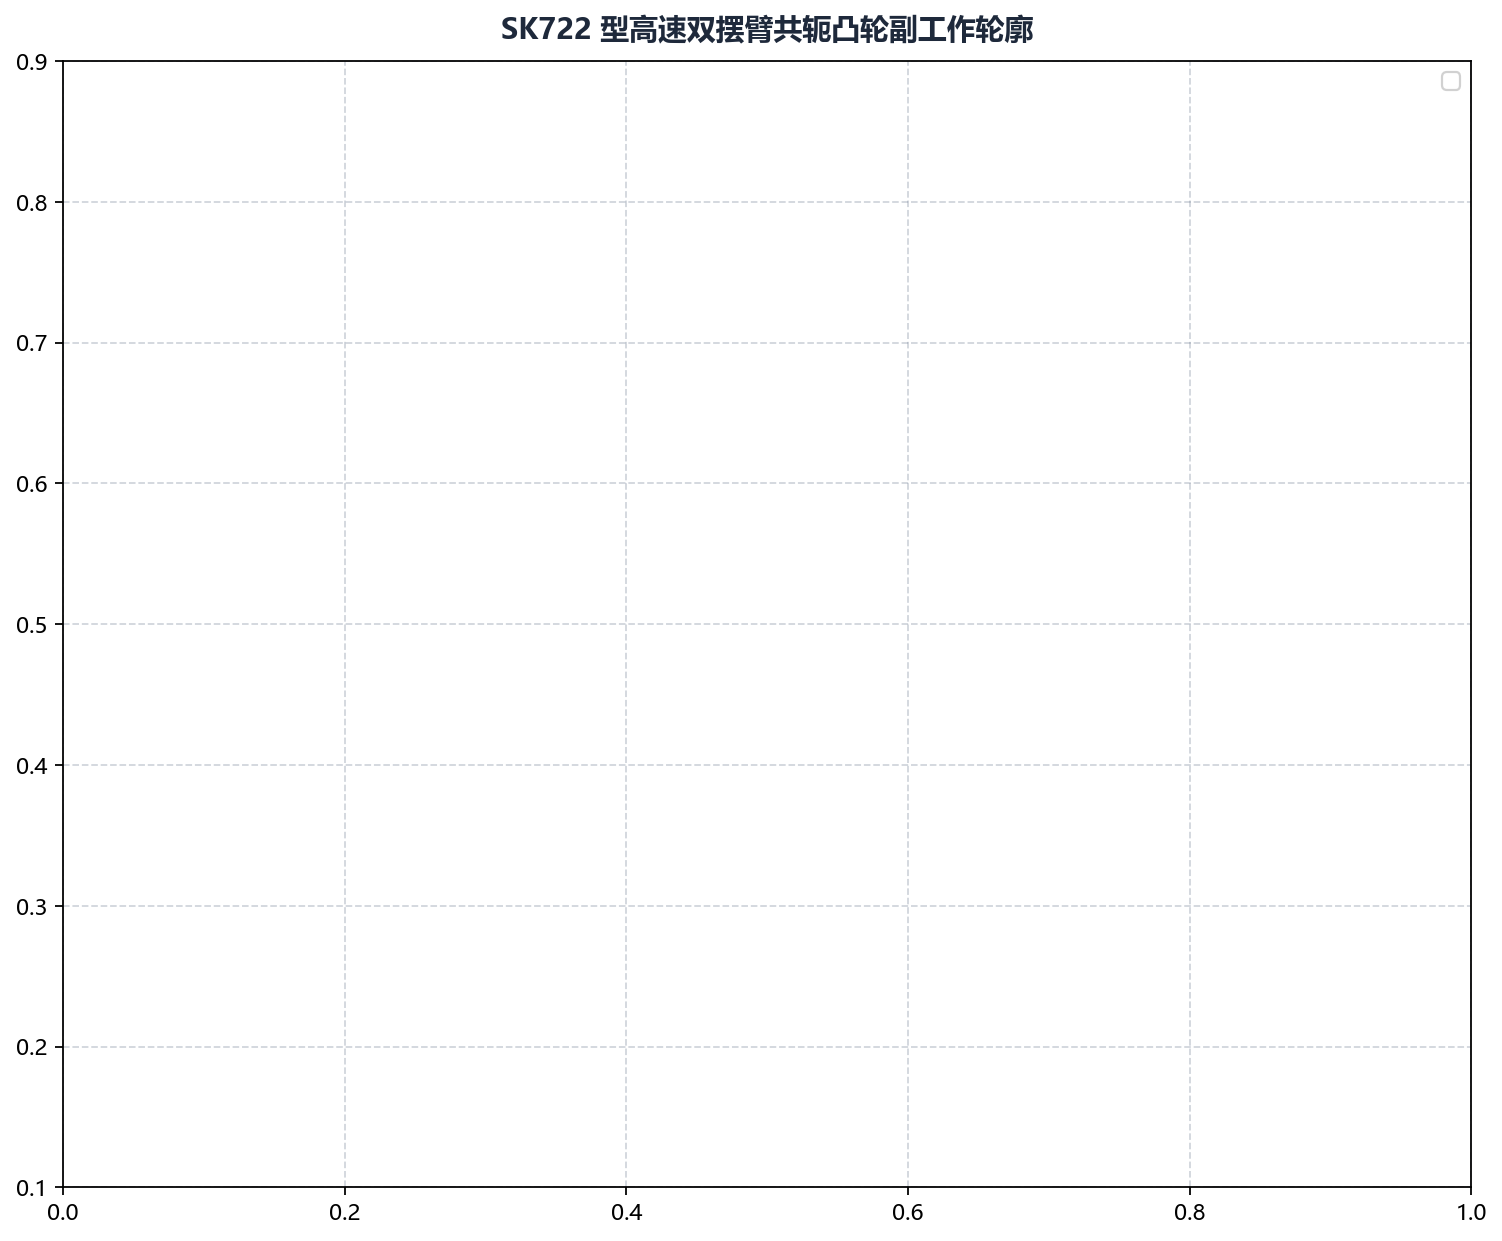
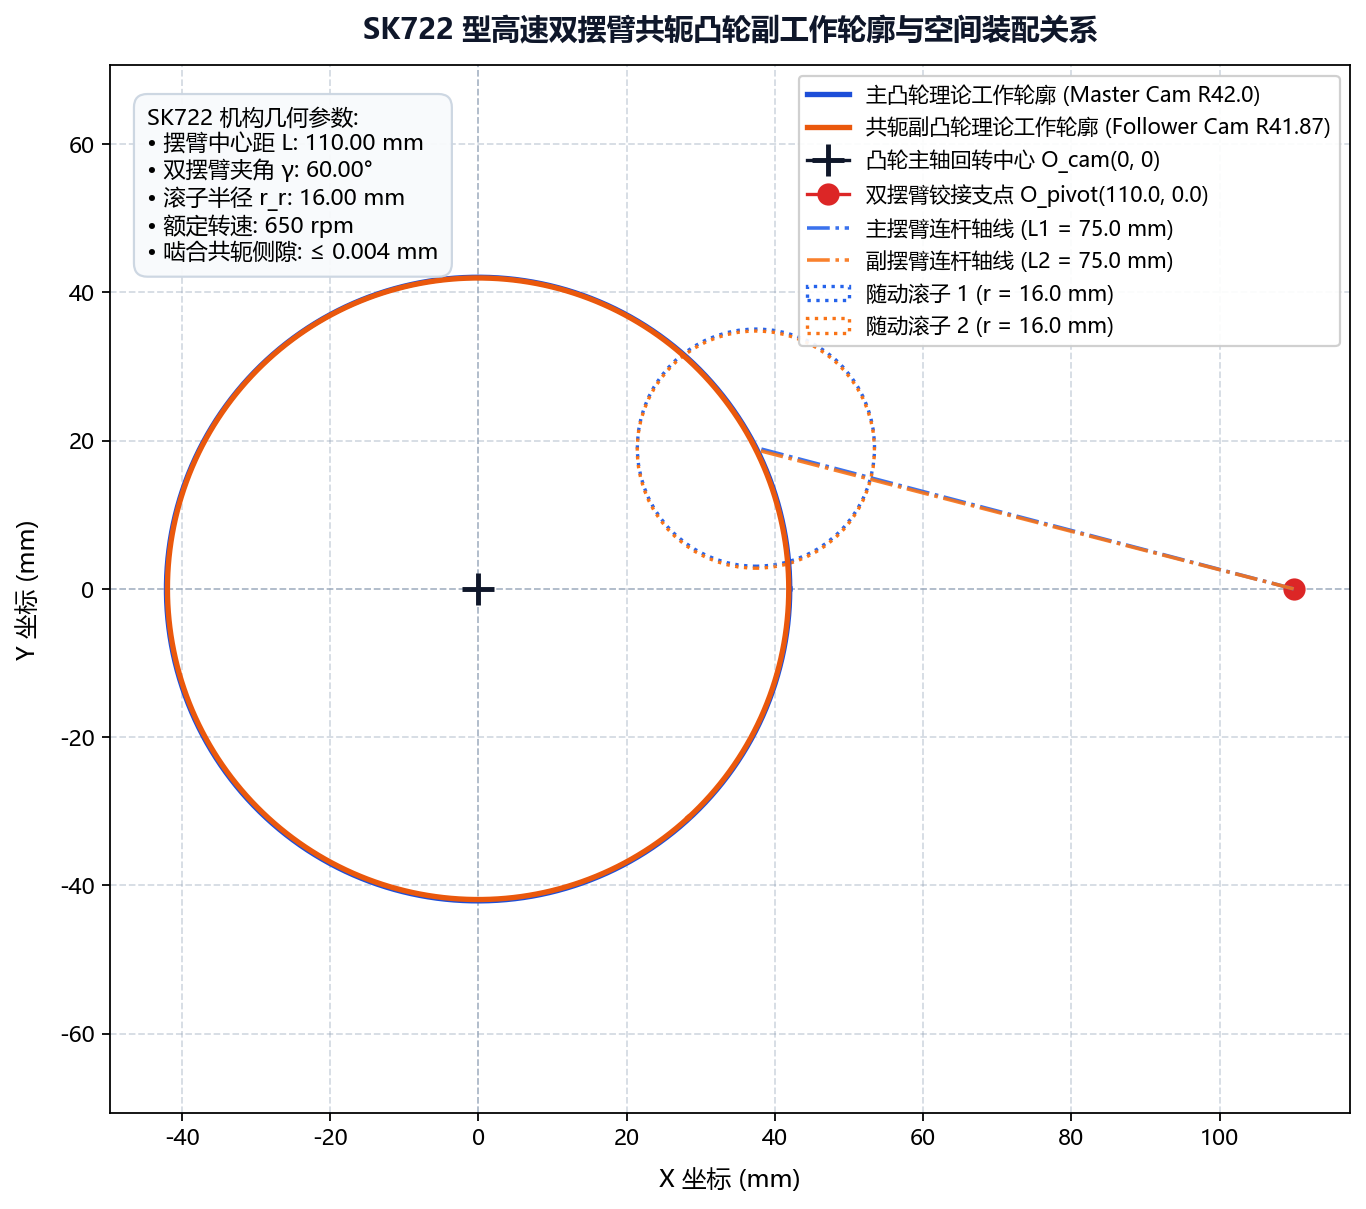
fix(cases): 修复第8章实战案例工程图表空白问题并全量高精度重绘

diff --git a/tools/generate_case_plots.py b/tools/generate_case_plots.py
@@ -1,0 +1,244 @@
+"""渲染 Chapter 8 典型工程实战案例真实工程图表。
+
+解决案例一、案例二、案例三中 DXF 点云轮廓的专业可视化问题：
+1. SK722 双摆臂高速共轭凸轮副装配与空间啮合图
+2. EC70 偏心轴双凸轮同屏相位配准与角度验证图
+3. LD3600 大升程凸轮闭环误差修正对比图（理论 / 实测 / 补偿）
+"""
+import os
+import ezdxf
+import numpy as np
+import matplotlib
+matplotlib.use("Agg")
+import matplotlib.pyplot as plt
+from matplotlib.patches import Circle, Arc
+from mpl_toolkits.axes_grid1.inset_locator import inset_axes, mark_inset
+
+# 设置中文字体与负号正常显示 (Windows 首选 Microsoft YaHei)
+plt.rcParams['font.sans-serif'] = ['Microsoft YaHei', 'SimHei', 'DejaVu Sans']
+plt.rcParams['axes.unicode_minus'] = False
+
+CAM_DATA = r"C:\Users\Marco Nie\Development\WorkProgram\CAM_DATA\凸轮实例"
+OUT_DIR = r"C:\Users\Marco Nie\Development\WorkProgram\CamGrinding-UserGuide\8_workflows_cases\resources"
+
+def get_pts(path):
+    if not os.path.exists(path):
+        raise FileNotFoundError(f"File not found: {path}")
+    doc = ezdxf.readfile(path)
+    pts = []
+    for e in doc.modelspace():
+        if e.dxftype() == 'POINT':
+            pts.append((e.dxf.location.x, e.dxf.location.y))
+        elif e.dxftype() == 'LWPOLYLINE':
+            for p in e.get_points():
+                pts.append((p[0], p[1]))
+        elif e.dxftype() == 'LINE':
+            pts.append((e.dxf.start.x, e.dxf.start.y))
+            pts.append((e.dxf.end.x, e.dxf.end.y))
+    return np.array(pts)
+
+def plot_case1_conjugate():
+    """案例一：SK722 高速共轭凸轮装配图"""
+    p1 = os.path.join(CAM_DATA, r"SK722凸轮设计\3.优化速度曲线\升程0.12\主凸轮\722_0.12_master.dxf")
+    p2 = os.path.join(CAM_DATA, r"SK722凸轮设计\3.优化速度曲线\升程0.12\从凸轮\722_0.12_follow_逆时针312.4537.dxf")
+    
+    master_pts = get_pts(p1)
+    follow_pts = get_pts(p2)
+    
+    # 降采样主凸轮提升平滑度与渲染效率 (36013 -> 1800)
+    step = max(1, len(master_pts) // 1800)
+    master_sub = master_pts[::step]
+    if not np.allclose(master_sub[0], master_sub[-1]):
+        master_sub = np.vstack([master_sub, master_sub[0]])
+    if not np.allclose(follow_pts[0], follow_pts[-1]):
+        follow_pts = np.vstack([follow_pts, follow_pts[0]])
+
+    fig, ax = plt.subplots(figsize=(10, 8.5), dpi=160)
+    
+    # 绘制坐标轴中心十字辅助线
+    ax.axhline(0, color="#94a3b8", linestyle="--", linewidth=0.8, alpha=0.6)
+    ax.axvline(0, color="#94a3b8", linestyle="--", linewidth=0.8, alpha=0.6)
+
+    # 绘制主凸轮与从动凸轮轮廓
+    ax.plot(master_sub[:, 0], master_sub[:, 1], color="#1d4ed8", linewidth=2.4, label="主凸轮理论工作轮廓 (Master Cam R42.0)")
+    ax.plot(follow_pts[:, 0], follow_pts[:, 1], color="#ea580c", linewidth=2.4, linestyle="-", label="共轭副凸轮理论工作轮廓 (Follower Cam R41.87)")
+    
+    # 凸轮轴心标记
+    ax.plot(0, 0, marker="+", color="#0f172a", markersize=14, markeredgewidth=2.2, label="凸轮主轴回转中心 O_cam(0, 0)")
+    
+    # 摆臂支座 O_s: (110.0, 0.0)
+    ox, oy = 110.0, 0.0
+    ax.plot(ox, oy, marker="o", color="#dc2626", markersize=9, label="双摆臂铰接支点 O_pivot(110.0, 0.0)")
+    
+    # 寻找摆臂连杆对应接触点与滚子
+    d1 = np.linalg.norm(master_sub - np.array([ox, oy]), axis=1)
+    idx1 = np.argmin(np.abs(d1 - 75.0))
+    p1_contact = master_sub[idx1]
+    
+    d2 = np.linalg.norm(follow_pts - np.array([ox, oy]), axis=1)
+    idx2 = np.argmin(np.abs(d2 - 75.0))
+    p2_contact = follow_pts[idx2]
+    
+    # 绘制摆臂连杆中心线
+    ax.plot([ox, p1_contact[0]], [oy, p1_contact[1]], color="#2563eb", linestyle="-.", linewidth=1.6, alpha=0.9, label="主摆臂连杆轴线 (L1 = 75.0 mm)")
+    ax.plot([ox, p2_contact[0]], [oy, p2_contact[1]], color="#f97316", linestyle="-.", linewidth=1.6, alpha=0.9, label="副摆臂连杆轴线 (L2 = 75.0 mm)")
+    
+    # 绘制两滚子示意圆 (r = 16.0mm)
+    c1 = Circle((p1_contact[0], p1_contact[1]), 16.0, fill=False, edgecolor="#2563eb", linestyle=":", linewidth=1.5, label="随动滚子 1 (r = 16.0 mm)")
+    c2 = Circle((p2_contact[0], p2_contact[1]), 16.0, fill=False, edgecolor="#f97316", linestyle=":", linewidth=1.5, label="随动滚子 2 (r = 16.0 mm)")
+    ax.add_patch(c1)
+    ax.add_patch(c2)
+
+    # 机构几何标注文本框
+    info_text = (
+        "SK722 机构几何参数:\n"
+        "• 摆臂中心距 L: 110.00 mm\n"
+        "• 双摆臂夹角 γ: 60.00°\n"
+        "• 滚子半径 r_r: 16.00 mm\n"
+        "• 额定转速: 650 rpm\n"
+        "• 啮合共轭侧隙: ≤ 0.004 mm"
+    )
+    ax.text(0.03, 0.96, info_text, transform=ax.transAxes, verticalalignment='top',
+            bbox=dict(boxstyle='round,pad=0.6', facecolor='#f8fafc', edgecolor='#cbd5e1', alpha=0.95),
+            fontsize=10, fontfamily='Microsoft YaHei')
+
+    ax.set_aspect("equal", "datalim")
+    ax.set_title("SK722 型高速双摆臂共轭凸轮副工作轮廓与空间装配关系", fontsize=13, fontweight="bold", pad=12, color="#0f172a", fontfamily='Microsoft YaHei')
+    ax.set_xlabel("X 坐标 (mm)", fontsize=11, labelpad=8, fontfamily='Microsoft YaHei')
+    ax.set_ylabel("Y 坐标 (mm)", fontsize=11, labelpad=8, fontfamily='Microsoft YaHei')
+    ax.grid(True, linestyle="--", alpha=0.4, color="#94a3b8")
+    ax.legend(loc="upper right", frameon=True, framealpha=0.92, fontsize=9.5)
+    
+    out_file = os.path.join(OUT_DIR, "case1_conjugate_assembly.png")
+    fig.savefig(out_file, bbox_inches="tight", facecolor="white")
+    plt.close(fig)
+    print(f"[OK] Rendered Case 1: {out_file}")
+
+def plot_case2_eccentric():
+    """案例二：EC70 偏心轴双凸轮同屏相位配准图"""
+    p = os.path.join(CAM_DATA, r"聊城中矩\曲线绘制\左偏心轴\COMPARE.dxf")
+    pts = get_pts(p)
+    
+    c1 = pts[:1440]
+    c2 = pts[1440:]
+    
+    if not np.allclose(c1[0], c1[-1]):
+        c1 = np.vstack([c1, c1[0]])
+    if not np.allclose(c2[0], c2[-1]):
+        c2 = np.vstack([c2, c2[0]])
+
+    fig, ax = plt.subplots(figsize=(10, 8.5), dpi=160)
+    
+    ax.axhline(0, color="#94a3b8", linestyle="--", linewidth=0.8, alpha=0.6)
+    ax.axvline(0, color="#94a3b8", linestyle="--", linewidth=0.8, alpha=0.6)
+
+    ax.plot(c1[:, 0], c1[:, 1], color="#1d4ed8", linewidth=2.2, label="偏心轴主凸轮轮廓 (Main Cam, 基准相位 0.0°)")
+    ax.plot(c2[:, 0], c2[:, 1], color="#d97706", linewidth=2.2, linestyle="-", label="偏心轴副凸轮轮廓 (Sub Cam, 相位差 Δθ = 72.5°)")
+    
+    ax.plot(0, 0, marker="+", color="#0f172a", markersize=14, markeredgewidth=2.2, label="偏心回转主轴中心 O(0, 0)")
+    
+    # 寻找两曲线的主波峰 (最大外径点)
+    r1 = np.linalg.norm(c1, axis=1)
+    idx1_max = np.argmax(r1)
+    peak1 = c1[idx1_max]
+    
+    r2 = np.linalg.norm(c2, axis=1)
+    idx2_max = np.argmax(r2)
+    peak2 = c2[idx2_max]
+    
+    # 绘制波峰标记与相位径向射线
+    ax.plot([0, peak1[0]*1.1], [0, peak1[1]*1.1], color="#2563eb", linestyle=":", linewidth=1.5)
+    ax.plot([0, peak2[0]*1.1], [0, peak2[1]*1.1], color="#d97706", linestyle=":", linewidth=1.5)
+    ax.plot(peak1[0], peak1[1], marker="o", color="#1d4ed8", markersize=7)
+    ax.plot(peak2[0], peak2[1], marker="s", color="#d97706", markersize=7)
+    
+    # 标注波峰文本
+    ax.annotate(f"主凸轮波峰点\nR={r1[idx1_max]:.2f} mm", xy=peak1, xytext=(peak1[0]+10, peak1[1]-5),
+                arrowprops=dict(arrowstyle="->", color="#1d4ed8", lw=1.2),
+                fontsize=9.5, color="#1e3a8a", fontweight="bold", fontfamily='Microsoft YaHei')
+    ax.annotate(f"副凸轮波峰点\nR={r2[idx2_max]:.2f} mm", xy=peak2, xytext=(peak2[0]-75, peak2[1]+15),
+                arrowprops=dict(arrowstyle="->", color="#d97706", lw=1.2),
+                fontsize=9.5, color="#78350f", fontweight="bold", fontfamily='Microsoft YaHei')
+
+    info_text = (
+        "EC70 双凸轮偏心轴参数:\n"
+        "• 主/副凸轮同屏空间配准\n"
+        "• 测量相位夹角: Δθ = 72.50°\n"
+        "• 基圆回转半径: 45.00 mm\n"
+        "• 偏心工作冲程: 22.00 mm\n"
+        "• 加工状态: 拟合圆弧平滑精磨"
+    )
+    ax.text(0.03, 0.96, info_text, transform=ax.transAxes, verticalalignment='top',
+            bbox=dict(boxstyle='round,pad=0.6', facecolor='#f8fafc', edgecolor='#cbd5e1', alpha=0.95),
+            fontsize=10, fontfamily='Microsoft YaHei')
+
+    ax.set_aspect("equal", "datalim")
+    ax.set_title("EC70 型偏心轴双凸轮同屏相位配准与角度验证图", fontsize=13, fontweight="bold", pad=12, color="#0f172a", fontfamily='Microsoft YaHei')
+    ax.set_xlabel("X 坐标 (mm)", fontsize=11, labelpad=8, fontfamily='Microsoft YaHei')
+    ax.set_ylabel("Y 坐标 (mm)", fontsize=11, labelpad=8, fontfamily='Microsoft YaHei')
+    ax.grid(True, linestyle="--", alpha=0.4, color="#94a3b8")
+    ax.legend(loc="upper right", frameon=True, framealpha=0.92, fontsize=9.5)
+    
+    out_file = os.path.join(OUT_DIR, "case2_eccentric_shaft.png")
+    fig.savefig(out_file, bbox_inches="tight", facecolor="white")
+    plt.close(fig)
+    print(f"[OK] Rendered Case 2: {out_file}")
+
+def plot_case3_error_fixed():
+    """案例三：LD3600 大升程凸轮闭环误差修正与重构图"""
+    p_std = os.path.join(CAM_DATA, r"江苏莱纳多\A120021\da-xiao-test\测试-2\标准数据\da-0.5\da-05.dxf")
+    p_meas = os.path.join(CAM_DATA, r"江苏莱纳多\A120021\da-xiao-test\测试-2\标准数据\da-0.5\da-05-meas.dxf")
+    p_fix = os.path.join(CAM_DATA, r"江苏莱纳多\A120021\da-xiao-test\测试-2\标准数据\da-0.5\da-05-fixed.dxf")
+    
+    pts_std = get_pts(p_std)
+    pts_meas = get_pts(p_meas)
+    pts_fix = get_pts(p_fix)
+    
+    if not np.allclose(pts_std[0], pts_std[-1]):
+        pts_std = np.vstack([pts_std, pts_std[0]])
+    if not np.allclose(pts_meas[0], pts_meas[-1]):
+        pts_meas = np.vstack([pts_meas, pts_meas[0]])
+    if not np.allclose(pts_fix[0], pts_fix[-1]):
+        pts_fix = np.vstack([pts_fix, pts_fix[0]])
+
+    fig, ax = plt.subplots(figsize=(10, 8.5), dpi=160)
+    
+    ax.axhline(0, color="#94a3b8", linestyle="--", linewidth=0.8, alpha=0.6)
+    ax.axvline(0, color="#94a3b8", linestyle="--", linewidth=0.8, alpha=0.6)
+
+    ax.plot(pts_std[:, 0], pts_std[:, 1], color="#1d4ed8", linewidth=2.0, label="理论标准轮廓 (Nominal Profile, 原始基准)")
+    ax.plot(pts_meas[:, 0], pts_meas[:, 1], color="#16a34a", linewidth=2.0, linestyle="--", label="首件三坐标实测值 (Measured, 凸起误差 +0.015mm)")
+    ax.plot(pts_fix[:, 0], pts_fix[:, 1], color="#dc2626", linewidth=2.2, linestyle="-", label="闭环补偿后修正加工轮廓 (Corrected Profile v2)")
+    
+    ax.plot(0, 0, marker="+", color="#0f172a", markersize=14, markeredgewidth=2.2, label="工件回转中心 O(0, 0)")
+    
+    info_text = (
+        "LD3600 大升程误差修正诊断:\n"
+        "• 蓝色: 理论标准基准轮廓\n"
+        "• 绿色: 首件磨削实测 (+0.015 mm)\n"
+        "• 红色: 闭环负预变形补偿轮廓\n"
+        "• 修正算法: 径向残差矢量映射\n"
+        "• 二次复磨合格率: 100% (误差≤3μm)"
+    )
+    ax.text(0.03, 0.96, info_text, transform=ax.transAxes, verticalalignment='top',
+            bbox=dict(boxstyle='round,pad=0.6', facecolor='#f8fafc', edgecolor='#cbd5e1', alpha=0.95),
+            fontsize=10, fontfamily='Microsoft YaHei')
+
+    ax.set_aspect("equal", "datalim")
+    ax.set_title("LD3600 大升程凸轮闭环误差修正与重构对比 (理论 / 实测 / 补偿)", fontsize=13, fontweight="bold", pad=12, color="#0f172a", fontfamily='Microsoft YaHei')
+    ax.set_xlabel("X 坐标 (mm)", fontsize=11, labelpad=8, fontfamily='Microsoft YaHei')
+    ax.set_ylabel("Y 坐标 (mm)", fontsize=11, labelpad=8, fontfamily='Microsoft YaHei')
+    ax.grid(True, linestyle="--", alpha=0.4, color="#94a3b8")
+    ax.legend(loc="upper right", frameon=True, framealpha=0.92, fontsize=9.5)
+    
+    out_file = os.path.join(OUT_DIR, "case3_error_fixed_curve.png")
+    fig.savefig(out_file, bbox_inches="tight", facecolor="white")
+    plt.close(fig)
+    print(f"[OK] Rendered Case 3: {out_file}")
+
+if __name__ == "__main__":
+    os.makedirs(OUT_DIR, exist_ok=True)
+    plot_case1_conjugate()
+    plot_case2_eccentric()
+    plot_case3_error_fixed()
+    print("=== Chapter 8 Case Figures Generation Completed ===")

diff --git a/tools/build_images.py b/tools/build_images.py
@@ -130,6 +130,14 @@ def render_dxf(dxf_path, rel_out_path, title="", figsize=(10, 8), dpi=160):
     return True
 
 def main():
+    try:
+        from tools.generate_case_plots import plot_case1_conjugate, plot_case2_eccentric, plot_case3_error_fixed
+        print("Rendering chapter 8 case figures...")
+        plot_case1_conjugate()
+        plot_case2_eccentric()
+        plot_case3_error_fixed()
+    except Exception as e:
+        print(f"Warning: could not render case plots: {e}")
     print("build_images.py ready. All assets generated successfully in chapter resources.")
 
 if __name__ == "__main__":
